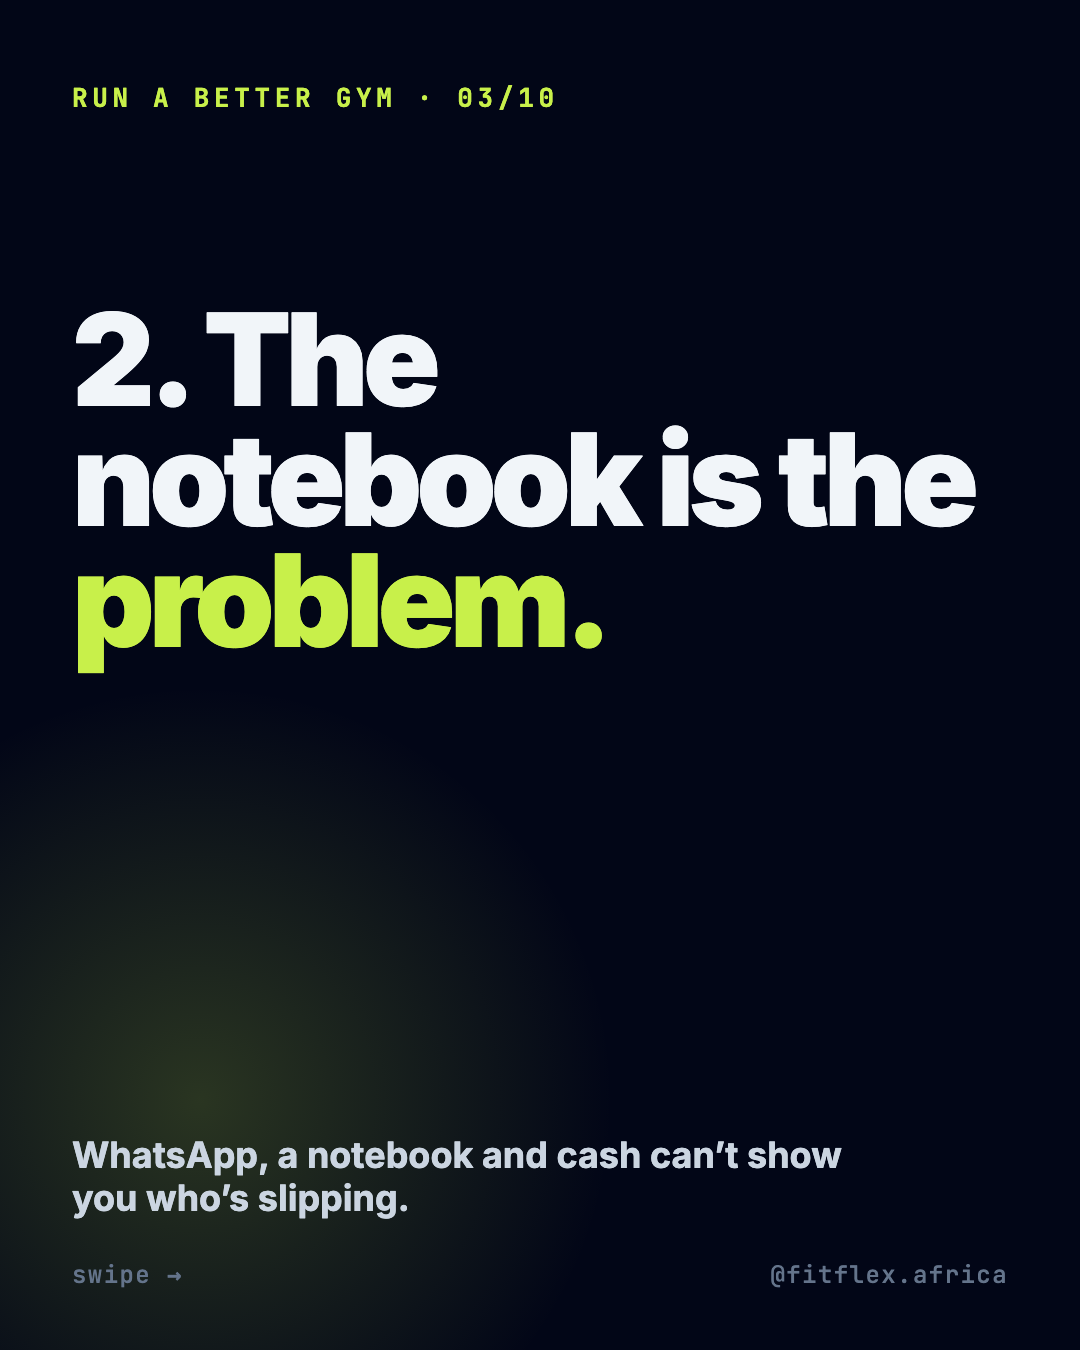
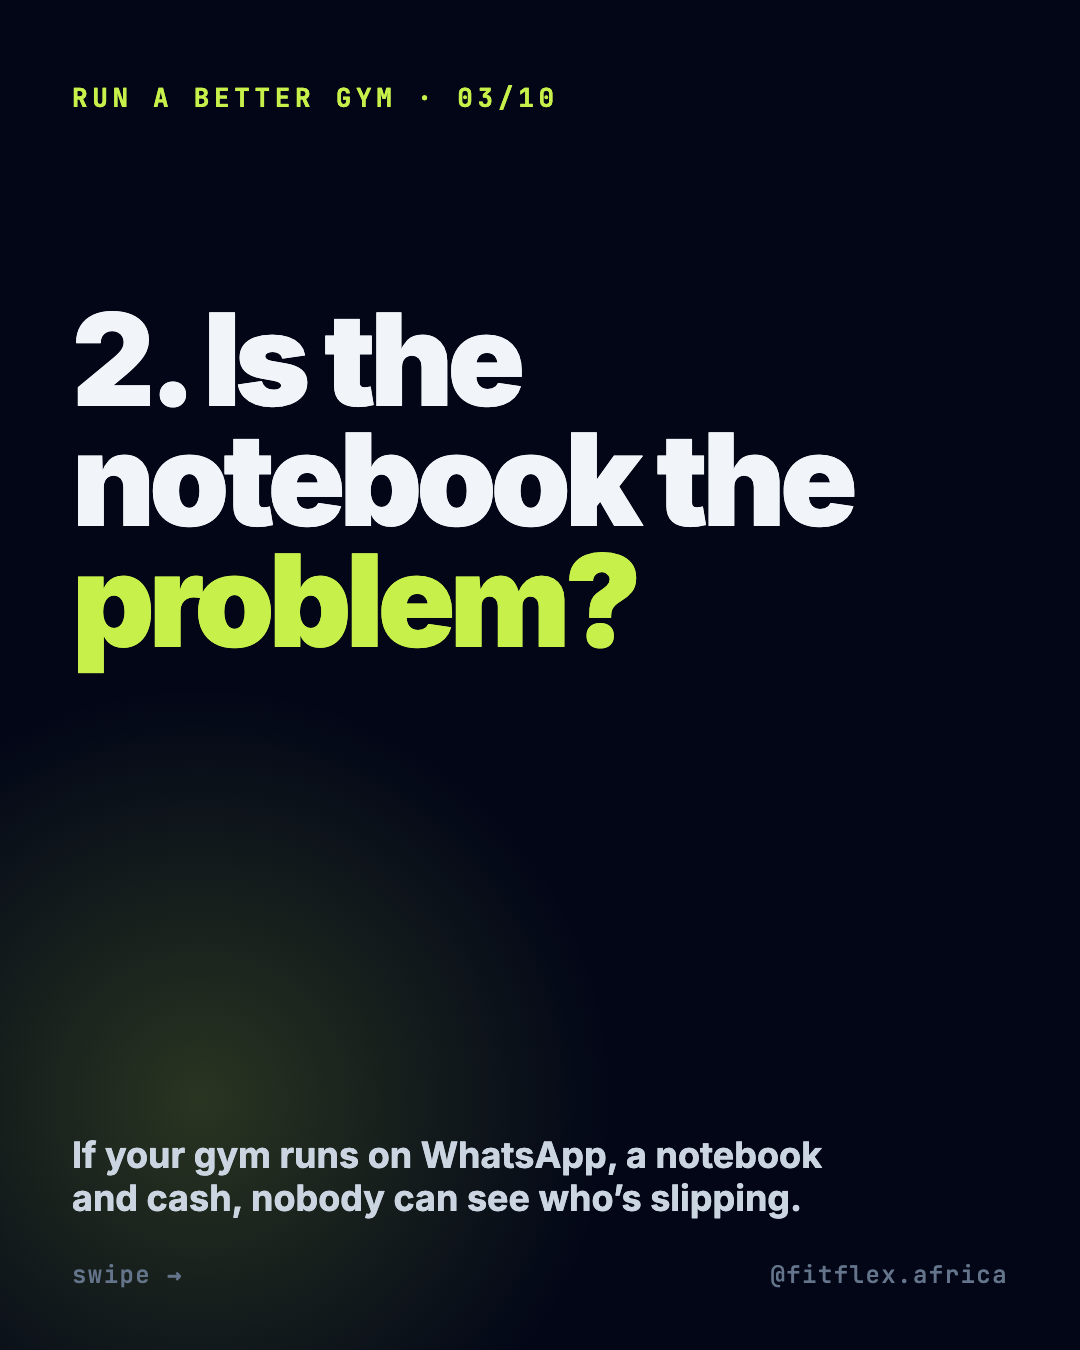
content(social): eight-shifts carousel revised after brand review (shift 2 as a question, one CTA)

diff --git a/social/content/2026-10-W5-A-owners/source/E10.html b/social/content/2026-10-W5-A-owners/source/E10.html
@@ -12,4 +12,4 @@
  .glow{position:absolute;width:900px;height:900px;border-radius:50%;background:radial-gradient(circle,rgba(200,240,74,.2),rgba(200,240,74,0) 65%)}
  .row{display:flex;align-items:center;gap:28px;padding:28px 0;border-bottom:2px solid #1E293B}.row .bar{width:14px;height:64px;border-radius:7px}.row .t{font-weight:900;font-size:70px;letter-spacing:-2px}.row .tag{margin-left:auto;font-family:Mono;font-size:22px;letter-spacing:.1em;color:#64748B;text-transform:uppercase}
  .foot{position:absolute;left:72px;bottom:112px;font-family:Mono;font-size:22px;letter-spacing:.1em;color:#64748B;text-transform:uppercase}
- </style></head><body><div class="glow" style="top:300px;left:100px"></div><div class="eyebrow">Run a better gym · 10/10</div><img class="logo" src="file:///Users/chollo/FitFlex-worktrees/social-phase1/social/brand/assets/fitflex-logo.png"><div style="position:absolute;left:72px;right:72px;top:300px;font-size:64px;font-weight:800;color:#CBD5E1;letter-spacing:-2px;line-height:1.1">Own a gym in Dar es Salaam?<br>Comment</div><div style="position:absolute;left:60px;right:40px;top:540px;font-weight:900;font-size:210px;letter-spacing:-.05em;color:#C8F04A;line-height:1">PARTNER</div><div class="sub" style="position:absolute;left:72px;right:72px;bottom:200px;color:#F1F5F9">We’ll DM you how FitFlex works. Save this first.</div><div class="handle">@fitflex.africa</div></body></html>
+ </style></head><body><div class="glow" style="top:300px;left:100px"></div><div class="eyebrow">Run a better gym · 10/10</div><img class="logo" src="file:///Users/chollo/FitFlex-worktrees/social-phase1/social/brand/assets/fitflex-logo.png"><div style="position:absolute;left:72px;right:72px;top:300px;font-size:64px;font-weight:800;color:#CBD5E1;letter-spacing:-2px;line-height:1.1">Own a gym in Dar es Salaam?<br>Comment</div><div style="position:absolute;left:60px;right:40px;top:540px;font-weight:900;font-size:210px;letter-spacing:-.05em;color:#C8F04A;line-height:1">PARTNER</div><div class="sub" style="position:absolute;left:72px;right:72px;bottom:200px;color:#F1F5F9">We’ll DM you how FitFlex works.</div><div class="handle">@fitflex.africa</div></body></html>

diff --git a/social/content/2026-10-W5-A-owners/source/E03.html b/social/content/2026-10-W5-A-owners/source/E03.html
@@ -12,4 +12,4 @@
  .glow{position:absolute;width:900px;height:900px;border-radius:50%;background:radial-gradient(circle,rgba(200,240,74,.2),rgba(200,240,74,0) 65%)}
  .row{display:flex;align-items:center;gap:28px;padding:28px 0;border-bottom:2px solid #1E293B}.row .bar{width:14px;height:64px;border-radius:7px}.row .t{font-weight:900;font-size:70px;letter-spacing:-2px}.row .tag{margin-left:auto;font-family:Mono;font-size:22px;letter-spacing:.1em;color:#64748B;text-transform:uppercase}
  .foot{position:absolute;left:72px;bottom:112px;font-family:Mono;font-size:22px;letter-spacing:.1em;color:#64748B;text-transform:uppercase}
- </style></head><body><div class="glow" style="top:650px;left:-250px"></div><div class="eyebrow">Run a better gym · 03/10</div><h1 style="position:absolute;left:72px;right:72px;top:300px;font-size:128px">2. The notebook is the <em>problem.</em></h1><div class="sub" style="position:absolute;left:72px;right:72px;bottom:130px;max-width:820px">WhatsApp, a notebook and cash can’t show you who’s slipping.</div><div style="position:absolute;bottom:60px;left:72px;font-family:Mono;font-weight:500;font-size:24px;letter-spacing:.06em;color:#64748B">swipe →</div><div class="handle">@fitflex.africa</div></body></html>
+ </style></head><body><div class="glow" style="top:650px;left:-250px"></div><div class="eyebrow">Run a better gym · 03/10</div><h1 style="position:absolute;left:72px;right:72px;top:300px;font-size:128px">2. Is the notebook the <em>problem?</em></h1><div class="sub" style="position:absolute;left:72px;right:72px;bottom:130px;max-width:820px">If your gym runs on WhatsApp, a notebook and cash, nobody can see who’s slipping.</div><div style="position:absolute;bottom:60px;left:72px;font-family:Mono;font-weight:500;font-size:24px;letter-spacing:.06em;color:#64748B">swipe →</div><div class="handle">@fitflex.africa</div></body></html>

diff --git a/social/content/2026-10-W5-A-owners/brief.md b/social/content/2026-10-W5-A-owners/brief.md
@@ -26,14 +26,14 @@ Type-first on deep slate with one Volt word per shift; a photo-scrim hook (owner
 |---|---|---|---|
 | 1 | photo | Dar gym owners are watching the wrong numbers. Sign-ups. Enquiries. Cash in the drawer. Eight shifts are changing gyms right now. | pexels-4720565 |
 | 2 | type | 1. Visits are the number, not sign-ups. A member who joined and stopped coming is a cancellation you haven't seen yet. | none |
-| 3 | type | 2. The notebook is the problem. WhatsApp, a notebook and cash can't show you who's slipping. | none |
+| 3 | type | 2. Is the notebook the problem? If your gym runs on WhatsApp, a notebook and cash, nobody can see who's slipping. | none |
 | 4 | list | 3. Members already pay by phone. Rows: M-Pesa, Airtel Money, Tigo Pesa, Cash only | none |
 | 5 | type | 4. Your front door is a phone screen. Find the gym, check in with a QR, book a trainer. If it's slow, they feel it before you do. | none |
 | 6 | type | 5. Nobody says goodbye. The only early signal is fewer visits. | none |
 | 7 | type | 6. Would your members stay if a cheaper gym opened next door? If the honest answer is “the ones who feel at home”, protect that. | none |
 | 8 | type | 7. Trainers want bookings and payment in one place. Give them that and you give them a reason to stay. | none |
 | 9 | photo | 8. Listed gyms get members they never advertised to. Travellers and multi-gym members choose from the network. | pexels-4173217 |
-| 10 | cta | Own a gym in Dar es Salaam? Comment PARTNER. We'll DM you how FitFlex works. Save this first. | none |
+| 10 | cta | Own a gym in Dar es Salaam? Comment PARTNER. We'll DM you how FitFlex works. | none |
 
 Source: `source/slides.json`; render with `node social/tools/render-carousel.js social/content/2026-10-W5-A-owners --png`.
 
@@ -45,17 +45,17 @@ Headlines 92–128 px Inter 900 on `#020617` or on the dark scrim; subheads 36 p
 
 **English (lead)**
 > Dar gym owners are watching the wrong numbers. Sign-ups, enquiries, cash in the drawer. Eight shifts are changing gyms right now, and most of them show up in your visits before they show up in your bank.
-> Save this. Own a gym in Dar? Comment PARTNER.
+> Own a gym in Dar? Comment PARTNER.
 
 **Swahili**
 > Wamiliki wa gym Dar wanaangalia namba zisizo sahihi. Usajili, maulizo, pesa taslimu. Mabadiliko manane yanabadilisha gym sasa hivi, na mengi yanaonekana kwenye ziara kabla ya kuonekana benki.
-> Hifadhi post hii. Una gym Dar? Andika PARTNER.
+> Una gym Dar? Andika PARTNER.
 
 Swahili is a Claude draft; the owner chose to proceed without native review for now.
 
 ## CTA
 
-Comment **PARTNER** → the owner replies by DM himself (decided 2026-10-20). "Save this first" asks for the save the format depends on.
+Comment **PARTNER** → the owner replies by DM himself (decided 2026-10-20). The save ask was dropped after brand review (one ask per post); the owner may reinstate it as an accepted exception for this format.
 
 ## Hashtags
 
@@ -74,4 +74,4 @@ Comment **PARTNER** → the owner replies by DM himself (decided 2026-10-20). "S
 
 - [ ] Brand review (social-brand-reviewer)
 - [ ] Confirm in the current build: engagement states and visit trends on the owner dashboard (shifts 1, 5); QR check-in and trainer booking (shift 4); trainer in-app payment (shift 7)
-- [ ] Owner comfortable with shifts 2 and 6 as worded (assumptions)
+- [x] Shifts 2 and 6 worded as questions after brand review (assumptions, not facts)
